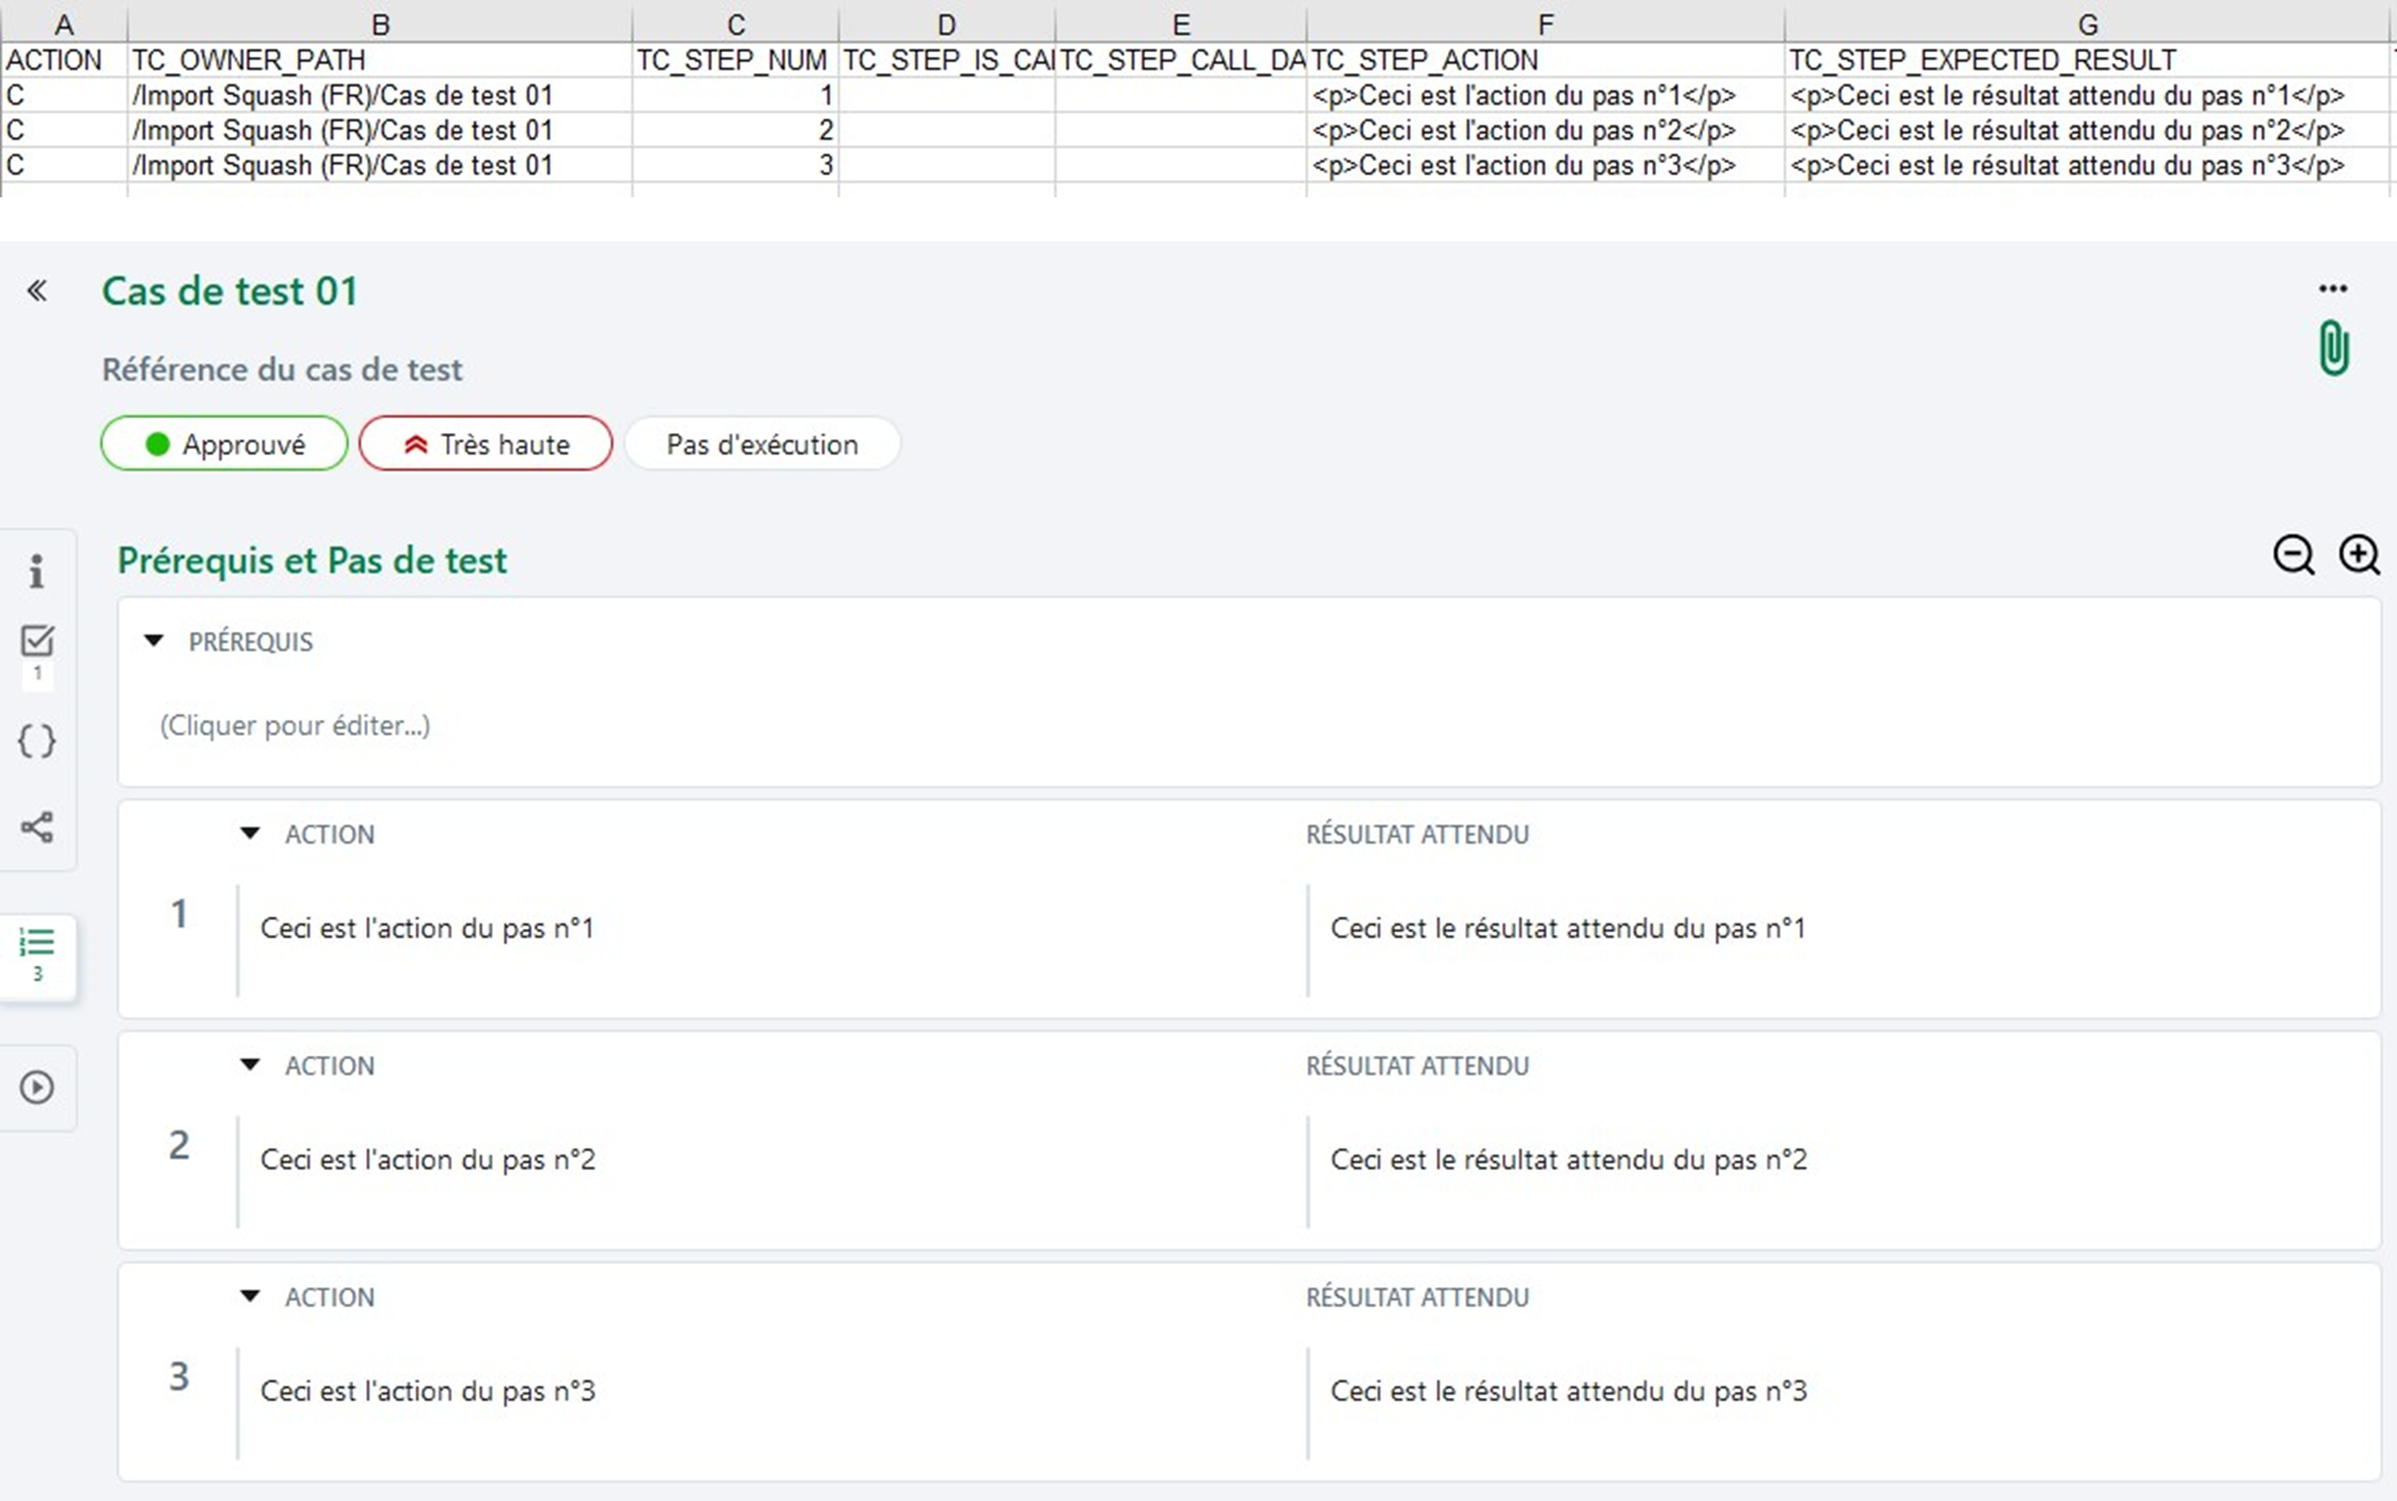
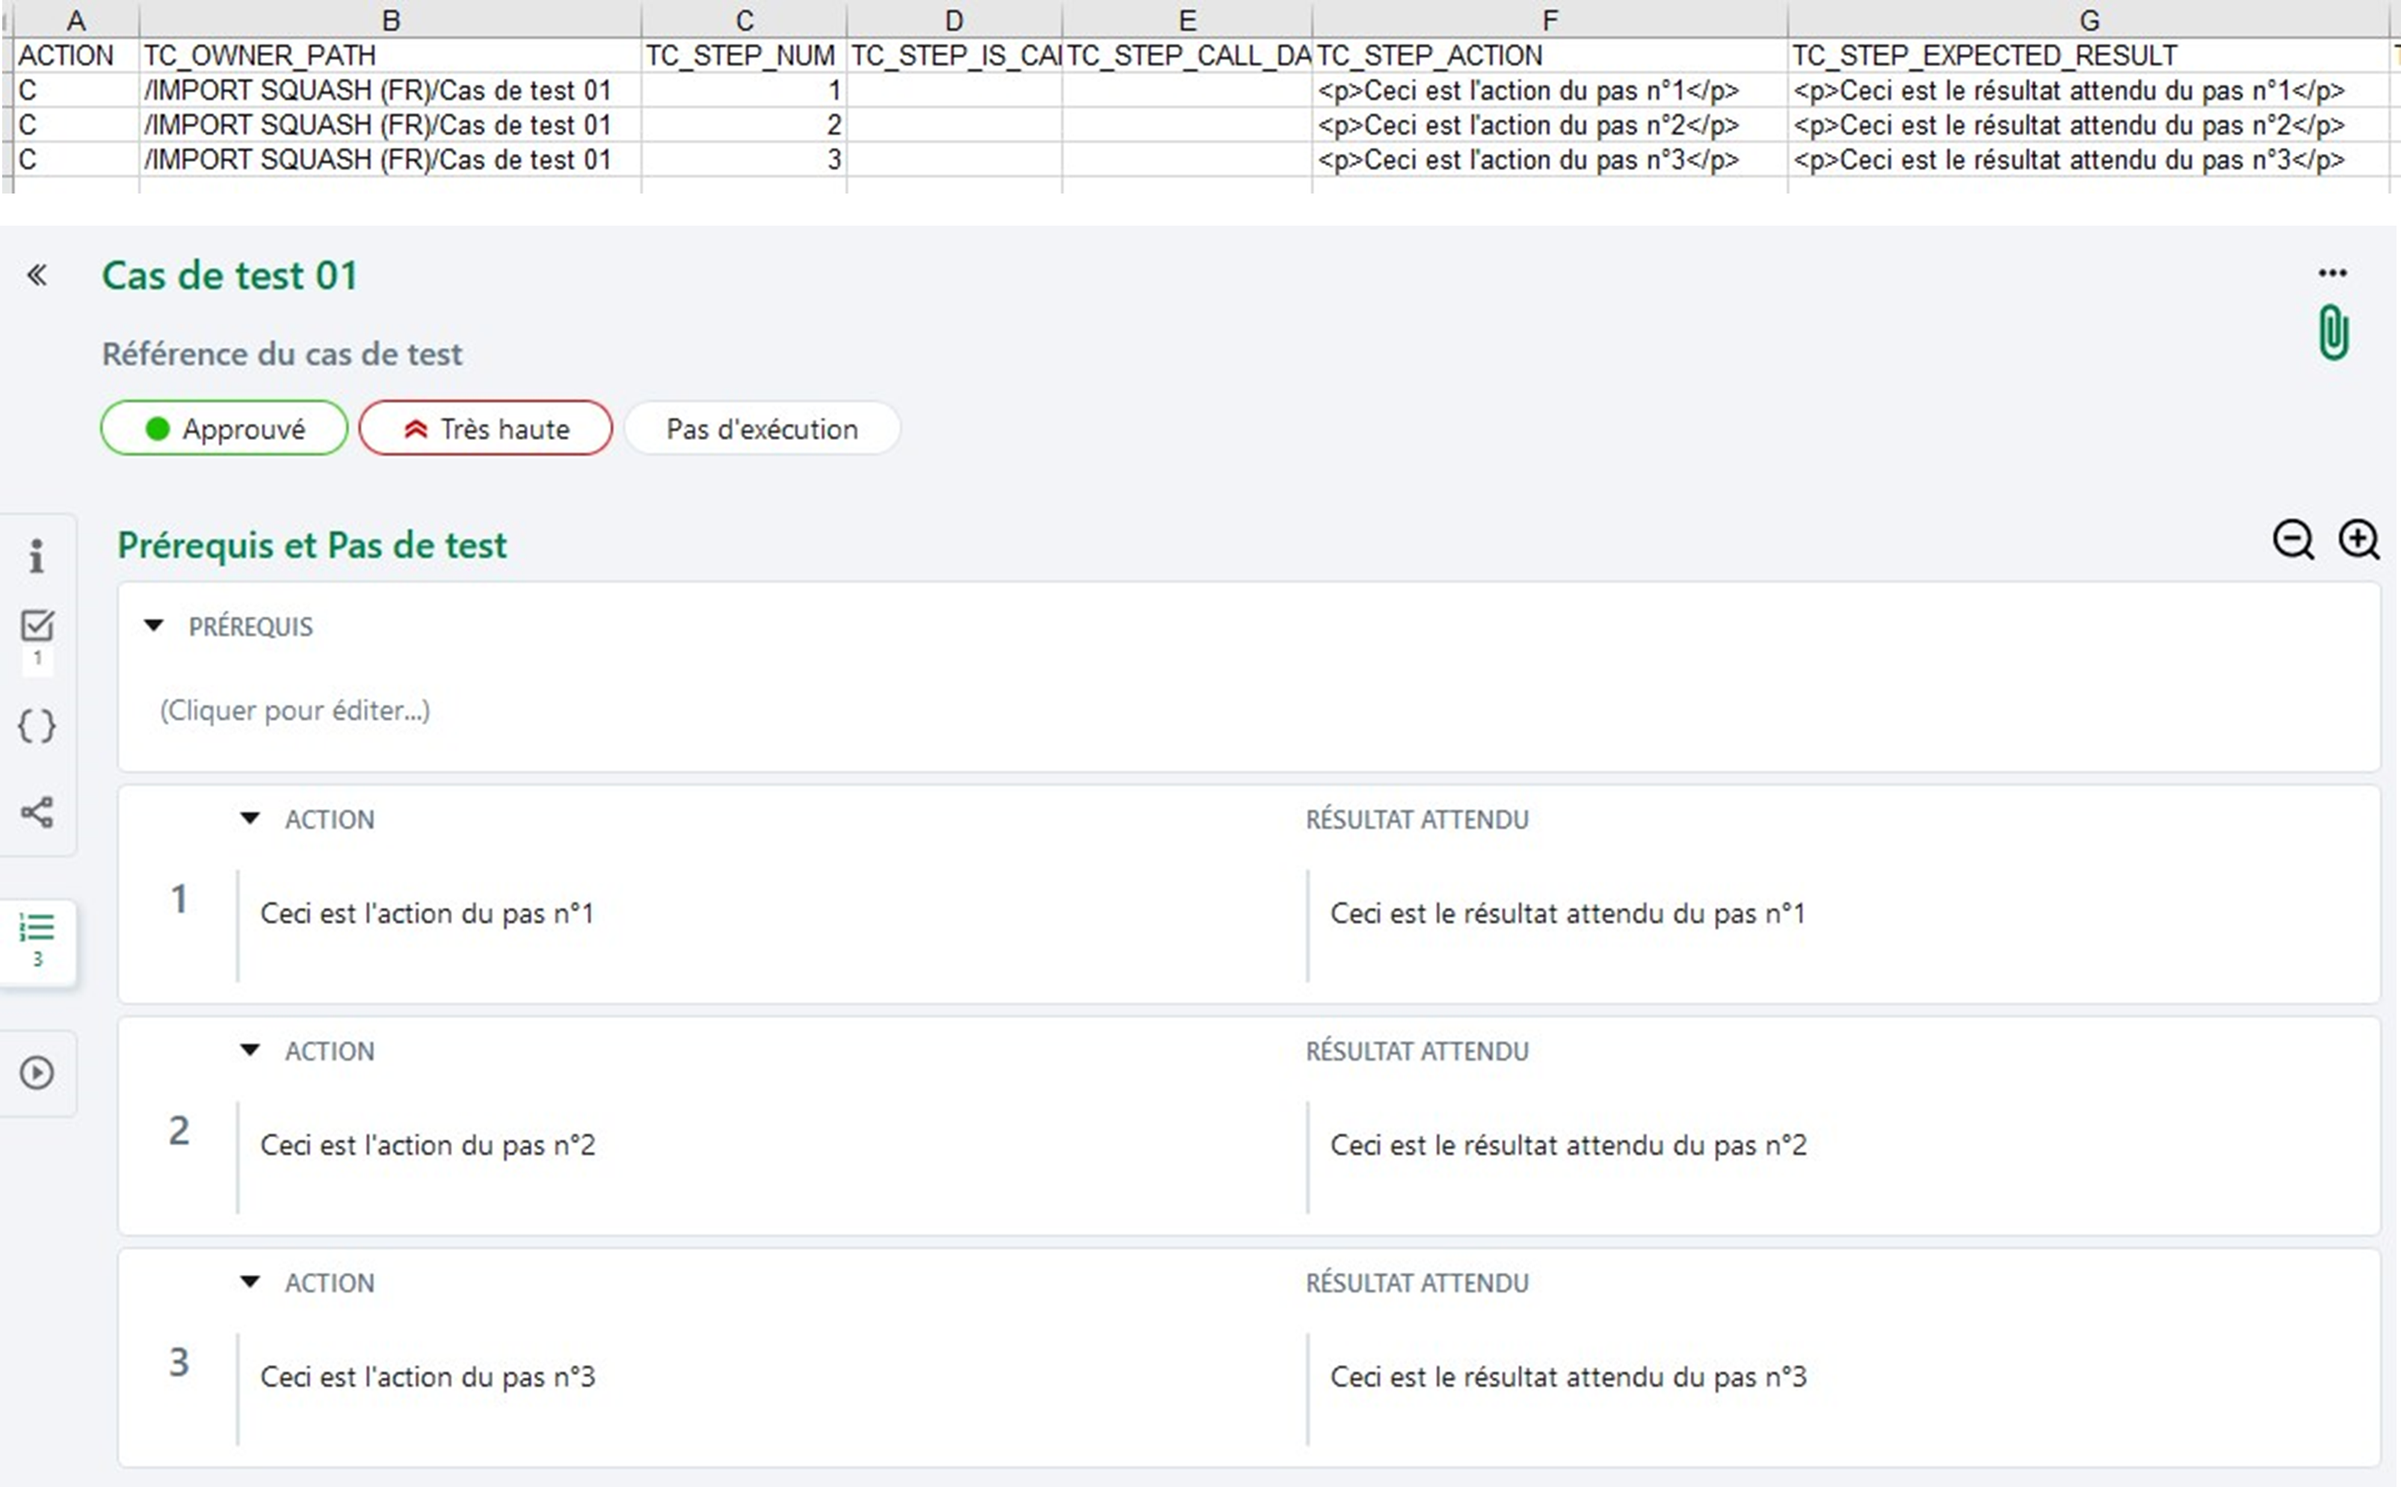
Deployed af78c06e with MkDocs version: 1.1.2

diff --git a/user-guide/03.gestion-cas-test/3.7.creer-modifier-masse-cas-test-import-export/3.7.2.importer-cas-test/index.html b/user-guide/03.gestion-cas-test/3.7.creer-modifier-masse-cas-test-import-export/3.7.2.importer-cas-test/index.html
@@ -713,7 +713,7 @@
 <p>L'import permet de créer des cas de test avec toutes les fonctionnalités disponibles dans l'espace Cas de test:</p>
 <h3 id="creer-une-arborescence-de-cas-de-test">Créer une arborescence de cas de test</h3>
 <p>L'arborescence est très importante car elle permet d'<strong>organiser le référentiel de tests</strong>. L'import offre la possibilité de créer une arborescence précise des dossiers et cas de test à importer et ce dans plusieurs projets à la fois.</p>
-<p><img alt="Importer une arborescence de cas de test " src="../resources/import-arbo-ct.png" /></p>
+<p><img alt="Importer une arborescence de cas de test " src="../resources/import-arbo-ct-fr.png" /></p>
 <p>Si les dossiers sont inexistants dans Squash au moment de l'import, ceux-ci sont créés par l'import. </p>
 <p><strong>Par exemple :</strong></p>
 <p>Pour le chemin:  /Projet1/Dossier1/Sousdossier1/Casdetest1</p>

diff --git a/index.html b/index.html
@@ -747,5 +747,5 @@
 
 <!--
 MkDocs version : 1.1.2
-Build Date UTC : 2021-05-10 09:03:00.718639+00:00
+Build Date UTC : 2021-05-10 09:32:03.995476+00:00
 -->
